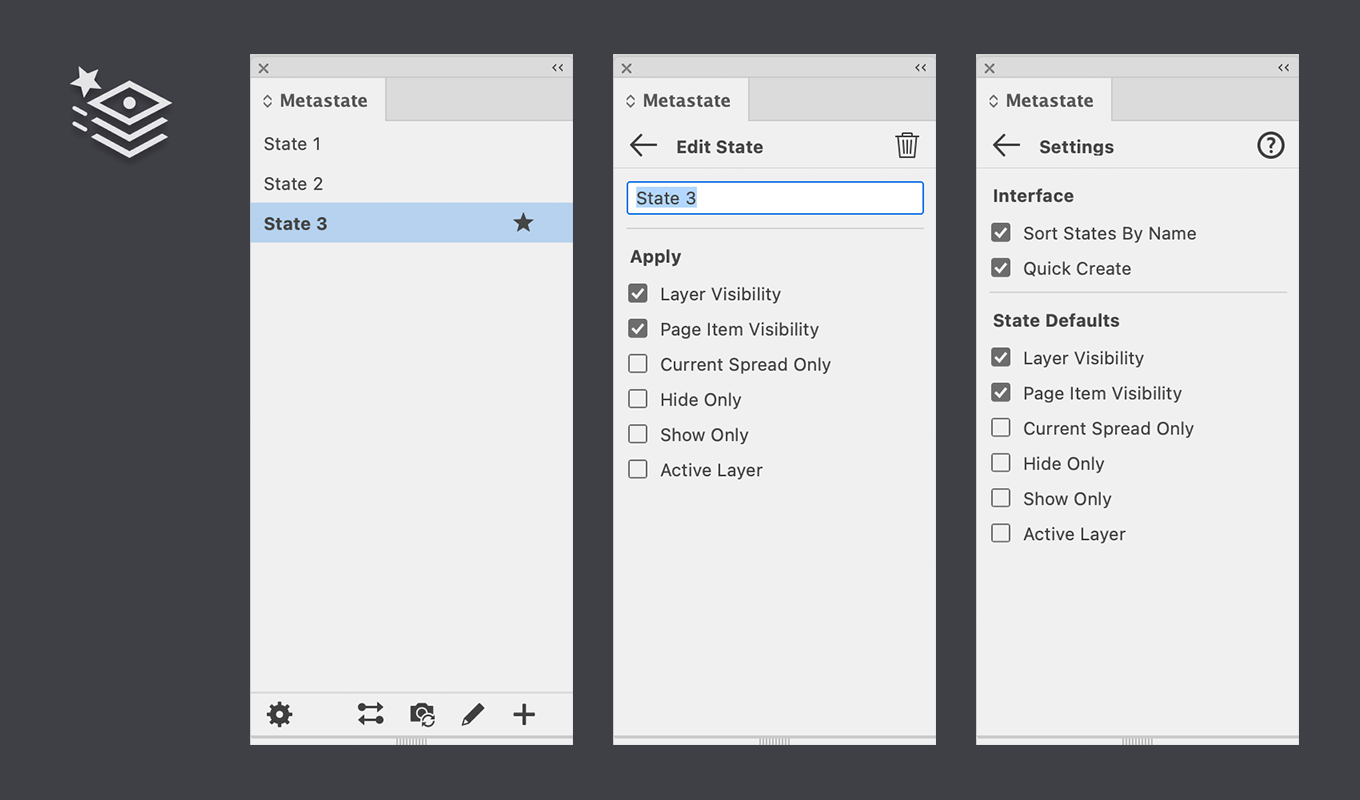
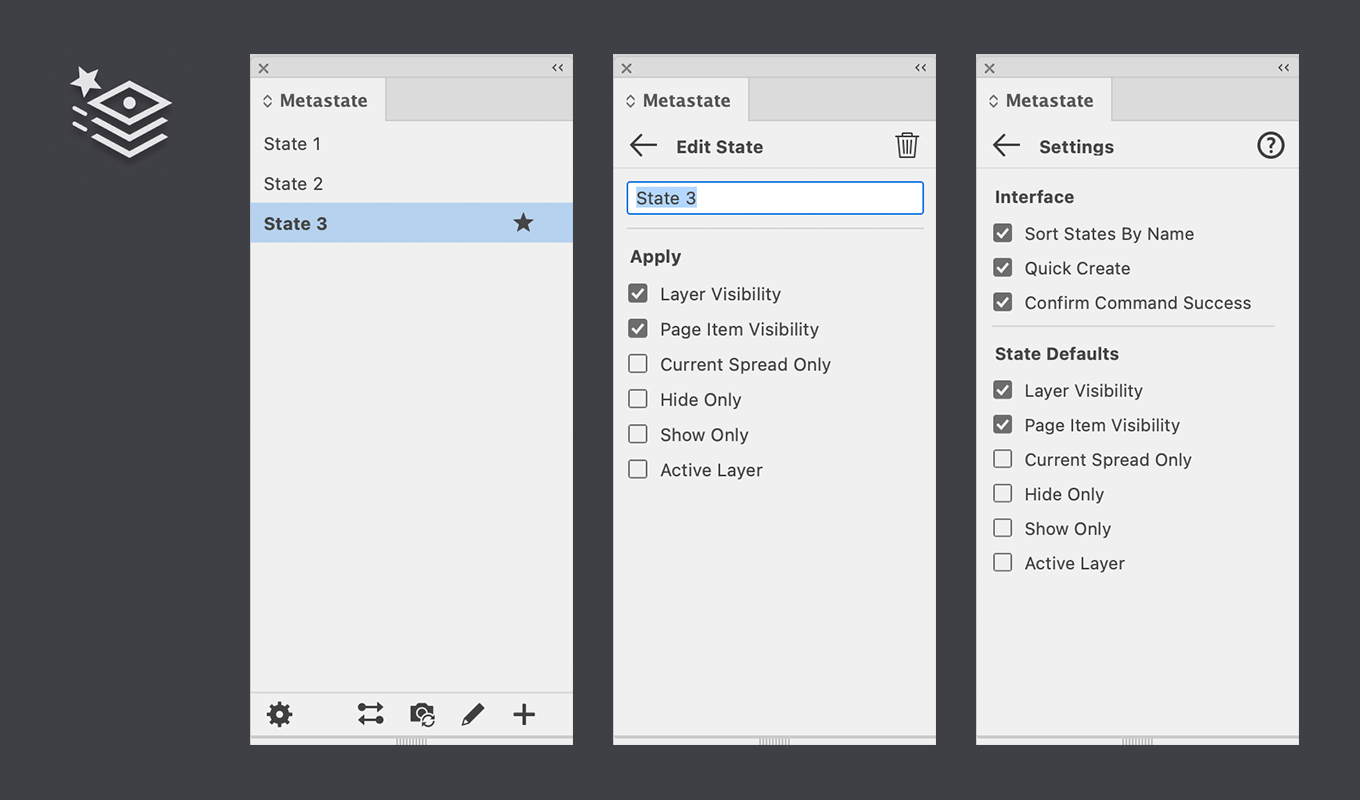
Update for v1.0.3

Changed region(s): [[0.7103, 0.2812, 0.9265, 0.7188], [0.7103, 0.2188, 0.8029, 0.25]]

diff --git a/docs/help-id.md b/docs/help-id.md
@@ -1,4 +1,4 @@
-# Rxcle Metastate for InDesign
+# Rxcle Metastate
 
 Metastate is a productivity plugin for Adobe InDesign that enables you to take named snapshots of the visibility and selection states of Layers and Page Items and quickly switch between these states. The states are stored within your documents as non-critical metadata, which means that documents with states can still be opened and edited without having the Metastate plugin installed.
 
@@ -109,20 +109,22 @@ The top of this view is a title bar that contains the following buttons, from le
 
 The settings and actions shown are as follows, from top to bottom:
 
-| Setting                  | Description |
-|--------------------------|-------------|
-| **Sort State By Name**   | Enable to sort states in alphabetical order, disable to sort in creation order.
-| **Quick Create**         | Enable to create new states immediately, using a default name. Disable to  show the Edit State view first.
-| **Layer Visibility**     | Enable to restore the visibility state (shown/hidden) of Layers.
-| **Page Item Visibility** | Enable to restore the visibility state (shown/hidden) of Page Items.
-| **Current Spread Only**  | Enable to only restore the visibility state of Page Items for the current Spread. Disable to restore for the entire document.
-| **Hide Only**            | Enable to only _hide_ additional Layers and Page Items when applying; Layers/Page Items that are already hidden are not made visible, even if they were in the original state snapshot.
-| **Show Only**            | Enable to only _show_ additional Layers and Page Items when applying; Layers/Page Items that are already shown are not hidden, even if they were in the original state snapshot.
-| **Active Layer**         | Enable to restore the active Layer when applying the State.
+| Setting                     | Description |
+|-----------------------------|-------------|
+| **Sort States By Name**     | Enable to sort states in alphabetical order, disable to sort in creation order.
+| **Quick Create**            | Enable to create new states immediately, using a default name. Disable to  show the Edit State view first.
+| **Confirm Command Success** | Enable to get a notification message on commands that were executed successfully. Disable to only show failures.
+| **Layer Visibility**        | Enable to restore the visibility state (shown/hidden) of Layers.
+| **Page Item Visibility**    | Enable to restore the visibility state (shown/hidden) of Page Items.
+| **Current Spread Only**     | Enable to only restore the visibility state of Page Items for the current Spread. Disable to restore for the entire document.
+| **Hide Only**               | Enable to only _hide_ additional Layers and Page Items when applying; Layers/Page Items that are already hidden are not made visible, even if they were in the original state snapshot.
+| **Show Only**               | Enable to only _show_ additional Layers and Page Items when applying; Layers/Page Items that are already shown are not hidden, even if they were in the original state snapshot.
+| **Active Layer**            | Enable to restore the active Layer when applying the State.
 
 Notes:
 - The **Interface** settings apply globally and immediately. 
 - The **State Defaults** settings apply only to newly created states.
+- The **Confirm Command Success** setting only applies to commands executed via the InDesign Plugins panel (or via shortcut or script), not for commands executed from within the Metastate panel UI.
 - **Current Spread Only** is only available when **Page Item Visibility** is enabled.
 - **Hide-** and **Show Only** are mutually exclusive. Disable both to restore the visibility state exactly as it was originally.
 - Disabling all three options **Layer Visibility**, **Page Item Visibility** and **Active Layer** will effectively _disable_ States: nothing will be restored.

diff --git a/docs/help-ps.md b/docs/help-ps.md
@@ -1,4 +1,4 @@
-# Rxcle Metastate for Photoshop
+# Rxcle Metastate
 
 Metastate is a productivity plugin for Adobe Photoshop that enables you to take named snapshots of the visibility and selection states of Layers and quickly switch between these states. The states are stored within your documents as non-critical metadata, which means that documents with states can still be opened and edited without having the Metastate plugin installed.
 
@@ -111,8 +111,9 @@ The settings and actions shown are as follows, from top to bottom:
 
 | Setting                     | Description |
 |-----------------------------|-------------|
-| **Sort State By Name**      | Enable to sort states in alphabetical order, disable to sort in creation order.
+| **Sort States By Name**     | Enable to sort states in alphabetical order, disable to sort in creation order.
 | **Quick Create**            | Enable to create new states immediately, using a default name. Disable to  show the Edit State view first.
+| **Confirm Command Success** | Enable to get a notification message on commands that were executed successfully. Disable to only show failures.
 | **Layer Visibility**        | Enable to restore the visibility state (shown/hidden) of top-level Layers, Groups and Artboards.
 | **Nested Layer Visibility** | Enable to restore the visibility state (shown/hidden) of nested Layers and Groups.
 | **Current Artboard Only**   | Enable to only restore the visibility state of Nested Layers on the current Artboard. Disable to restore for the entire document.
@@ -123,7 +124,8 @@ The settings and actions shown are as follows, from top to bottom:
 Notes:
 - The **Interface** settings apply globally and immediately. 
 - The **State Defaults** settings apply only to newly created states.
-- **Hide-** and **Show Only** are mutually exclusive. Disable both to restore the visibility state exactly as it was originally.
+- The **Confirm Command Success** setting only applies to commands executed via the Photoshop Plugins panel (or via shortcut or script), not for commands executed from within the Metastate panel UI.
+- **Hide Only** and **Show Only** are mutually exclusive. Disable both to restore the visibility state exactly as it was originally.
 - Disabling all three options **Layer Visibility**, **Nested Layer Visibility** and **Active Layer** will effectively _disable_ States: nothing will be restored.
 
 ## Plugin Commands

diff --git a/README.md b/README.md
@@ -5,8 +5,8 @@ Metastate is a productivity plugin for Adobe InDesign and Photoshop that enables
 ## Installation
 Obtain and install **Metastate** via **Adobe Exchange**. Note that there is a separate edition for Photoshop and InDesign:
 
-- [Metastate for Photoshop](https://exchange.adobe.com/apps/cc/5c49df2d/metastate-for-photoshop)
-- [Metastate for InDesign](https://exchange.adobe.com/apps/cc/3a475d7f/metastate-for-indesign)
+- [Metastate for Photoshop](https://exchange.adobe.com/apps/cc/7ed35f2b/metastate-for-photoshop)
+- [Metastate for InDesign](https://exchange.adobe.com/apps/cc/3177a2eb/metastate-for-indesign)
 
 
 After installation a new menu and Panel is available under the `Plugins` panel in InDesign or Photoshop.
